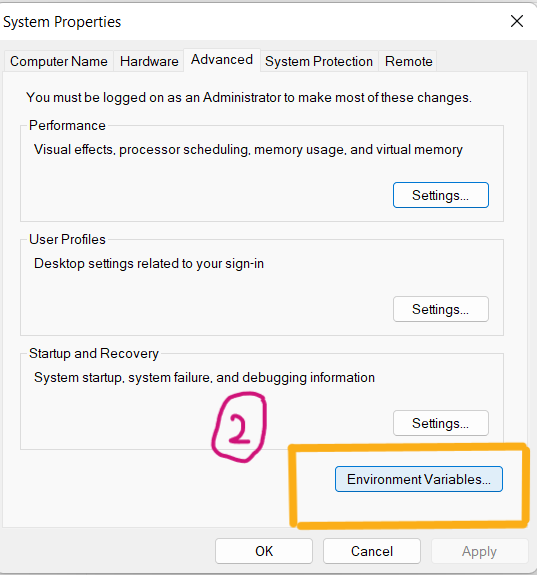
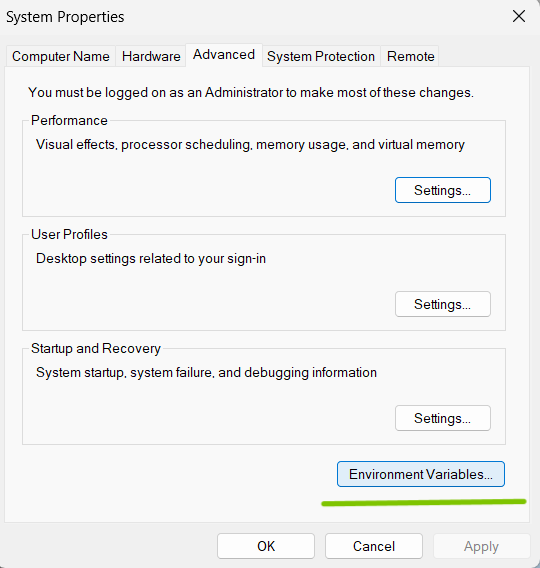
dockerinstallation

diff --git a/utils/windows/install/install-docker.md b/utils/windows/install/install-docker.md
@@ -1,116 +1,53 @@
 # Introduction
 
-This is the help page to install docker in windows machine 
+# Docker 
 
+![Docker](images/Docker.png)
 
-# How To 
+Docker is an open-source platform that allows developers to automate the deployment, scaling, and management of applications using containerization. Containers are lightweight and isolated environments that package an application and all its dependencies, including libraries and configuration files, into a single unit. Docker provides a standardized way to create, distribute, and run containers on any operating system.
 
-## Step 1 : Install WSL
+Here are some key concepts related to Docker:
 
-**Install WSL or make sure you have WSL Installed your machine.**
+- **Images**: Docker images are the building blocks of containers. They are read-only templates that contain everything needed to run an application, including the code, runtime, libraries, and system tools.
 
-### 1. **Lets first check if we have WSL installed in our system , by typing the below command in Powershell (Run as Administrator)** ###
+- **Containers**: A Dockerfile is a text file that defines the configuration of a Docker image. It contains a series of instructions to build the image, such as specifying the base image, copying files, installing dependencies, and configuring the runtime environment.
 
-**```wsl --list --verbose```**
+- **Docker Hub**: Docker Hub is a cloud-based registry that allows you to find, share, and store Docker images. It is the default public registry for Docker, hosting a vast collection of pre-built images for various applications and technologies.
 
-![WSL check](images/powershell.png)
+- **Docker Compose**: Docker Compose is a tool for defining and running multi-container Docker applications. It uses a YAML file to define the services, networks, and volumes required for your application stack, allowing you to manage multiple containers as a single unit.
 
-### 2. **If WSL is not installed in our system , lets install by following the below steps :** ###
-  
-- **Click the below link , which will direct you to Microsfot Document**
+- **Docker Swarm**: Docker Swarm is a native clustering and orchestration solution for Docker. It allows you to create and manage a swarm of Docker nodes, turning them into a single virtual Docker host. Swarm enables you to deploy and scale applications across multiple machines, providing high availability and load balancing.
 
-   https://learn.microsoft.com/en-us/windows/wsl/install-manual
+- **Docker Engine**: Docker Engine is the runtime environment for Docker. It runs and manages containers on a host machine, handling container execution, networking, storage, and other core functionalities.
 
-![WSL check](images/Microsoftdoc.png)
-
-- **Directly Jump to 4th step! and click on the WSL2 Linux kernel update package for x64 machines.**
-
-![WSL check](images/downloadWSL.png)
-
-- **You can see WSL Package Downloading.**
-
-![WSL check](images/downloading.png)
+These are just some of the fundamental concepts of Docker. Docker has become incredibly popular in the software development community due to its ability to simplify application deployment, improve scalability, and enhance development workflows.
 
 ***
 
-## Step 2 : WSL to PATH
+# How to Install Docker Desktop
 
-- **Add WSL path to env variable i.e. PATH**
-
-1. **Open WSL file location**
-
-![WSL check](images/location.png)
-
-***
-![WSL check](images/path.png)
-
-
-2. **Add the path to System Environment variables .**
-
-   ### Open the Edit the system environment variables.
-![WSL check](images/env.png)
-
-***
-   ### Click on Environment Variables .
-![WSL check](images/env-var.png)
-
-***
-   ### Click on Path and then Click on Edit .
-![WSL check](images/edit.png)
-
-***
-   ### Click on New and paste the path there . Click on OK.
-![WSL check](images/addpath.png)
-
-***
-
-## Step 3 : Download
-
-- **Download Docker Desktop and Install it.**
-
-1. **Go to your favourite Browser, and type "Docker Desktop".**
-
-![WSL check](images/Dockerdesktop.png)
-
-2. **According to your computer Operating system click on respective OS**
-
-![WSL check](images/DockerOS.png)
-
-3. **You can see Docker Desktop Downloading , it will take some time to download.**
-
-![WSL check](images/downloaddocker.png)
-
-4. **Once it is downloaded , click on the Docker Desktop , it will start installing**
-
-![WSL check](images/pack.png)
-
-**Docker Desktop Installed Succesfully. Click on Close..**
-
-![WSL check](images/installed.png)
-
-5. **Now ,Open your Docker Desktop , You can see Docker Running**
-
-![WSL check](images/Running.png)
-
-
-***
-
-
-## Step 4 :  How to verify
-- **Open Powershell Terminal and run below command**
-
-``` 
-docker run -d -p 80:80 docker/getting-started 
-``` 
-![WSL check](images/dockerrun.png)
-
-- **Open browser and enter url "localhost:80".**
-
-![WSL check](images/localhost.png)
-
-- **You should see Getting Started page Appearing.**
-
-![WSL check](images/gettingstarted.png)
+| Step | Description | Image |
+|------|-------------|-------|
+| **Prequisites** | | | |
+| **Step 1** | **Install WSL or make sure you have WSL Installed your machine.Lets first check if we have WSL installed in our system , by typing the below command in Powershell(RunasAdministrator)** **```wsl --list --verbose```**|![Step 1](images/powershell.png) |
+| **Step 1.a**| **If WSL is not installed in our system , lets install by following the below steps, Click the below link , which will direct you to Microsfot Document**     https://learn.microsoft.com/en-us/windows/wsl/install-manual |![Step 1.a](images/Microsoftdoc.png) |
+| **Step 1.b** | **Please follow all the 6 steps which are been mentioned in the document. And in the 4th step don’t forget to download the WSL2 Linux kernel update package, which is very much necessary for us to run the Docker Desktop You can see WSL Package Downloading.**|![Step 1.b](images/downloading.png) |
+| **Step 2** | **Now, once the package is downloaded, we need to add the WSL path to our System Environment Variables.**| |![Step 4](images/dockerrun.png) |
+| **Step 2.a**| **Go to the Search box and search for WSL.Click on the File Location**|![Step 2.a](images/wsl.png) |
+| **Step 2.b** | **Now, copy the path of WSL**|![Step 2.b](images/path.png) |
+| **Step 2.C** | **Now, search for Edit the System Environment variables in search box and open that.**|![Step 2.c](images/sysenv.png) |
+| **Step 2.d** | **Click on Environment variables**|![Step 2.d](images/env-var.png) |
+| **Step 2.e** | **Under System variables select Path and click on Edit.**|![Step 2.e](images/edit.png) |
+|     **Download Docker Desktop:**  | | | |
+| **Step 3** | **Go to your favourite Browser, and type "Docker Desktop Download” select the first link.**|![Step 3](images/Dockerdesktop.png) |
+| **Step 3.a** | **Click on the Download Docker Desktop button, you will see Docker desktop downloading.**|![Step 3.a](images/DockerOS.png) |
+| **Step 3.b** | **Once Docker desktop is downloaded, click on open file then you will see packages installing..**|![Step 3.b](images/packages.png) |
+| **Step 3.c** | **Once the installation is done, come back to your main Desktop, you will see Docker desktop on the screen, open the Docker desktop.**|
+| **Step 3.d** | **You will see Docker Desktop Running Successfully.**|![Step 3.c](images/desktop.png) |
+|     **How to Verify**  | | | |
+| **Step 4** | **Open PowerShell Terminal and run the following command**  ```docker run -d -p 80:80 docker/getting-started```|![Step 4](images/run.png) |
+| **Step 4.a** | **Open browser and enter url "localhost:80".**|![Step 4.a](images/local.png) |
+| **Step 4.a** | **You should see Getting Started Page Appearing.**|![Step 4.b](images/gettingstarted.png) |
 
 
 ***
